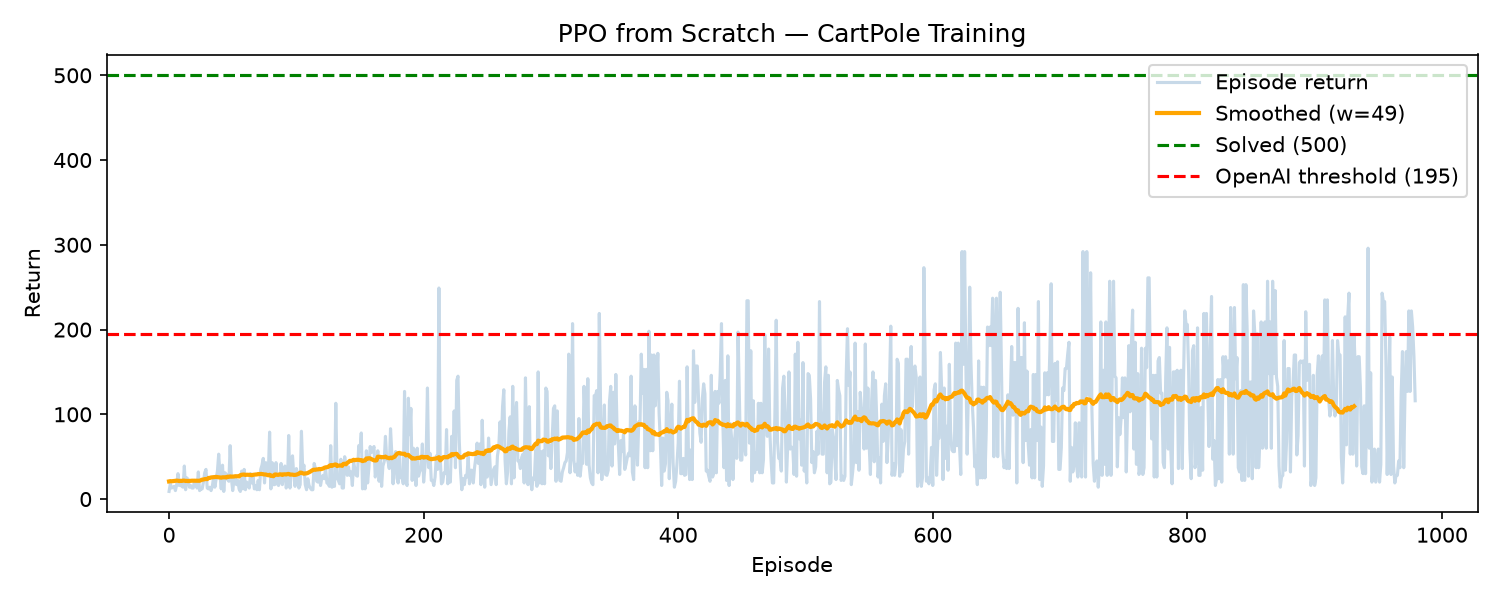
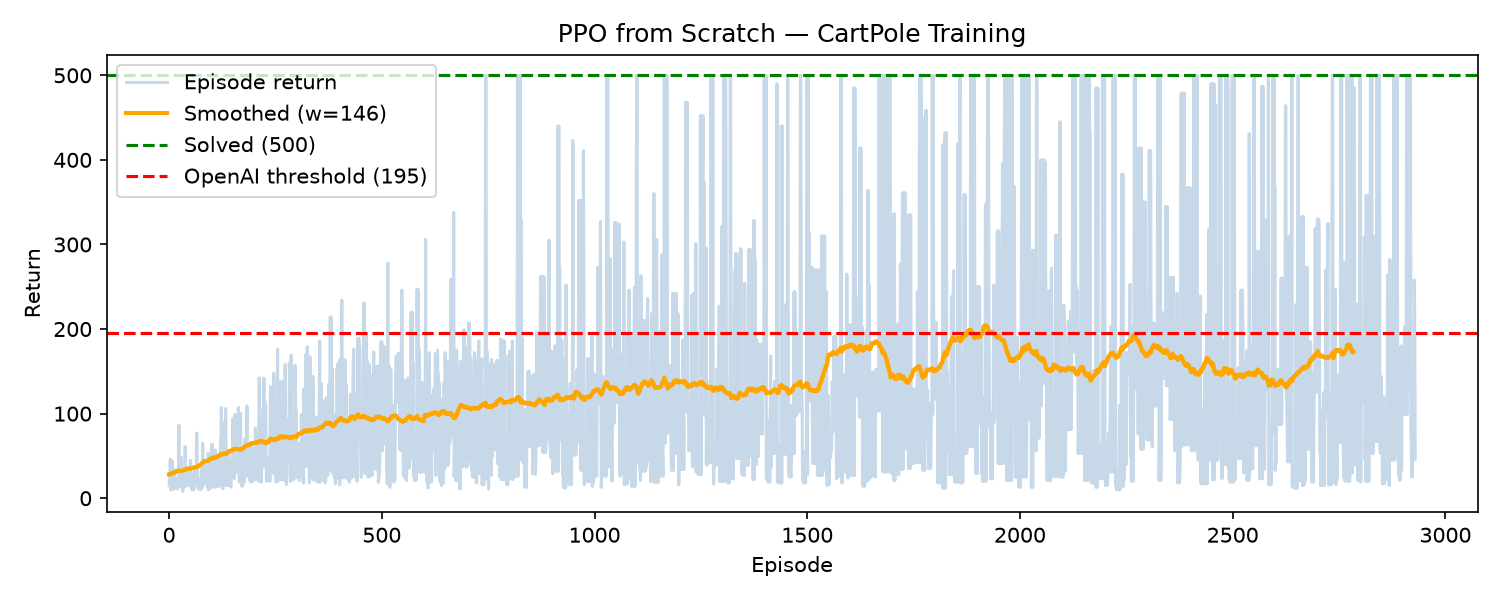
Tune CartPole PPO: increase training steps to 300k, higher entropy bonus

diff --git a/cartpole/02_cartpole_ppo.py b/cartpole/02_cartpole_ppo.py
@@ -225,7 +225,7 @@ def ppo_update(net, optimizer, obs, acts, logps_old, advantages, returns,
             entropy = dist.entropy().mean()
 
             # total loss
-            loss = policy_loss + 0.5*value_loss - 0.05*entropy
+            loss = policy_loss + 0.5*value_loss - 0.01*entropy
 
             optimizer.zero_grad()
             loss.backward()
@@ -245,7 +245,7 @@ def ppo_update(net, optimizer, obs, acts, logps_old, advantages, returns,
 def train(total_steps=300_000, rollout_steps=512):
     env = CartPole()
     net = ActorCritic()
-    opt = optim.Adam(net.parameters(), lr=3e-4)
+    opt = optim.Adam(net.parameters(), lr=1e-4)
 
     all_returns = []
     steps_done  = 0
@@ -365,7 +365,7 @@ if __name__ == "__main__":
         net.eval()
         watch(net, episodes=5)
     else:
-        net, returns = train(total_steps=100_000)
+        net, returns = train(total_steps=300_000)
         plot_returns(returns)
         print("\nTo watch the trained agent:")
         print("  python 02_cartpole_ppo.py watch")